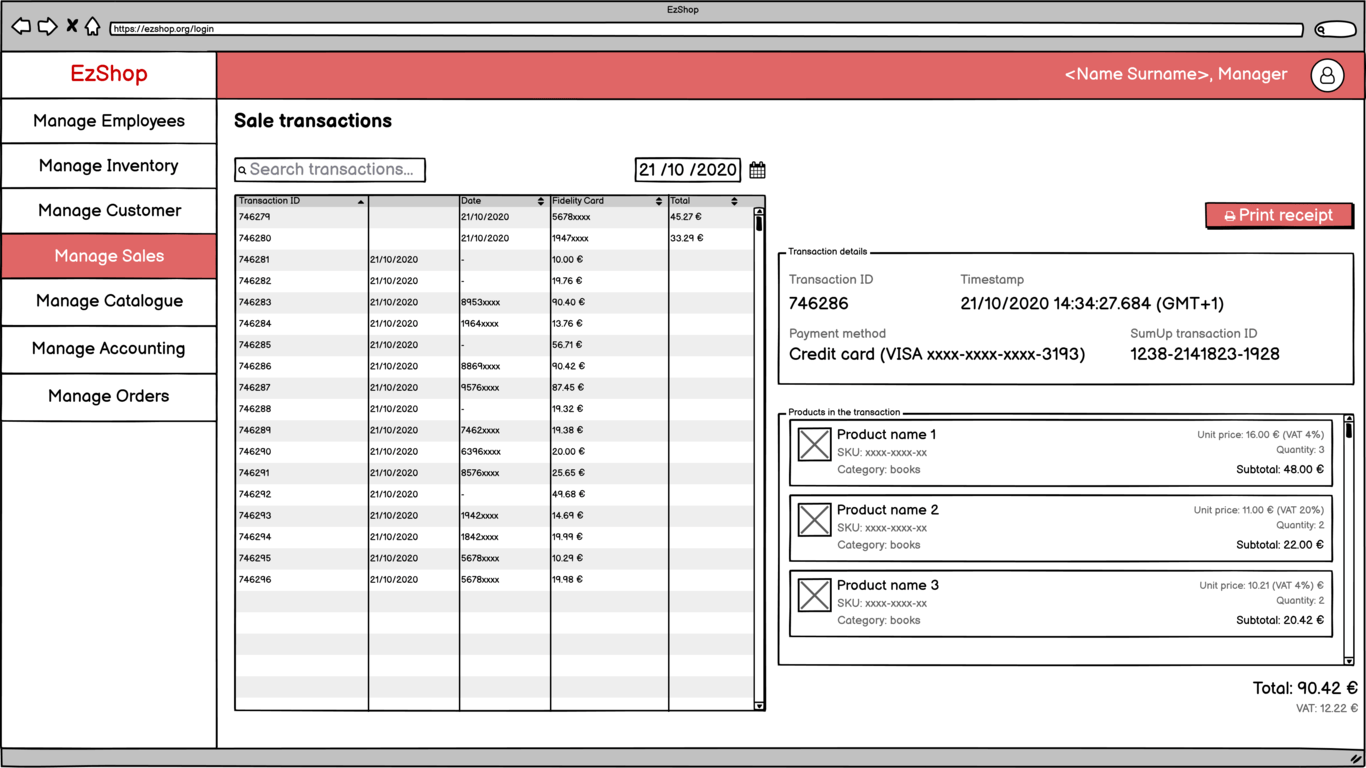
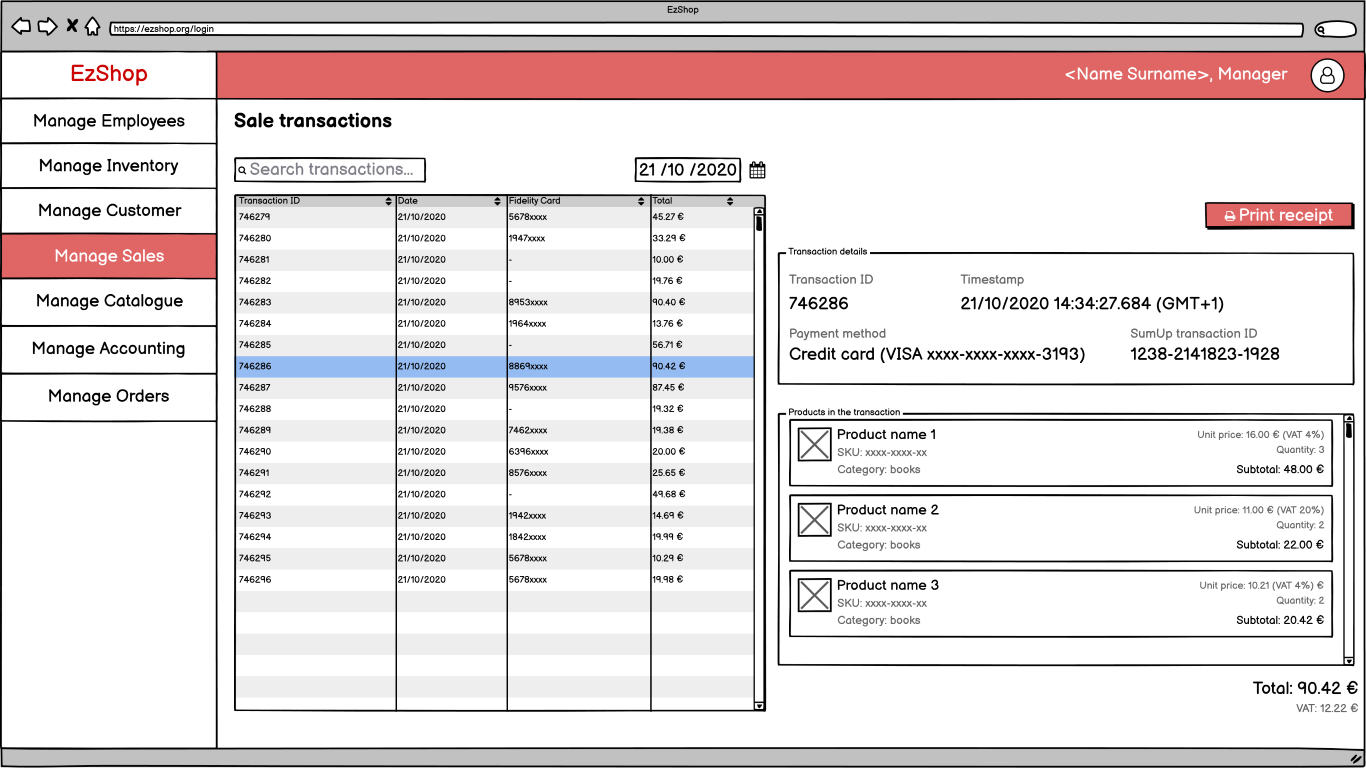
Additional comments on the graphical user interface

Changed region(s): [[0.1537, 0.25, 0.5534, 0.7812], [0.0922, 0.0312, 0.1537, 0.0625], [0.1845, 0.25, 0.2152, 0.2812]]

diff --git a/Deliverables/GUIPrototype.md b/Deliverables/GUIPrototype.md
@@ -69,6 +69,7 @@ The application lets the store manager add, edit and remove employees.
 ![Inventory - Edit a product (update confirmed)](images/inventory/edit-confirmed.png)
 
 #### Resupply
+A shop worker can manually increase the amount of a product pending resupply.
 
 ![Inventory - Resupply](images/inventory/resupply-confirm.png)
 
@@ -78,13 +79,20 @@ The application lets the store manager add, edit and remove employees.
 
 
 ### Sales
+The sales screen shows the transactions history of the shop.
 
 #### Sales list with details
-![Sales list 1](images/sales/sales-1.png)
+For each transaction, the application shows the items belonging to the transaction and, the payment method and the possibly the POS transaction id. The shop worker can print again the receipt. 
 
-![Sales list 2](images/sales/sales-2.png)
+![Sales - List 1](images/sales/sales-1.png)
+
+If the transaction was paid in cash, the application shows the cash amount given by the customer and the due change.
+
+![Sales - List 2](images/sales/sales-2.png)
 
 #### Example of a receipt
+The receipt of EZShop lists the products purchased in the transaction, their price and quantity. A barcode representing the transaction's id is also reported.
+
 ![Receipt](images/sales/receipt.png)
 
 
